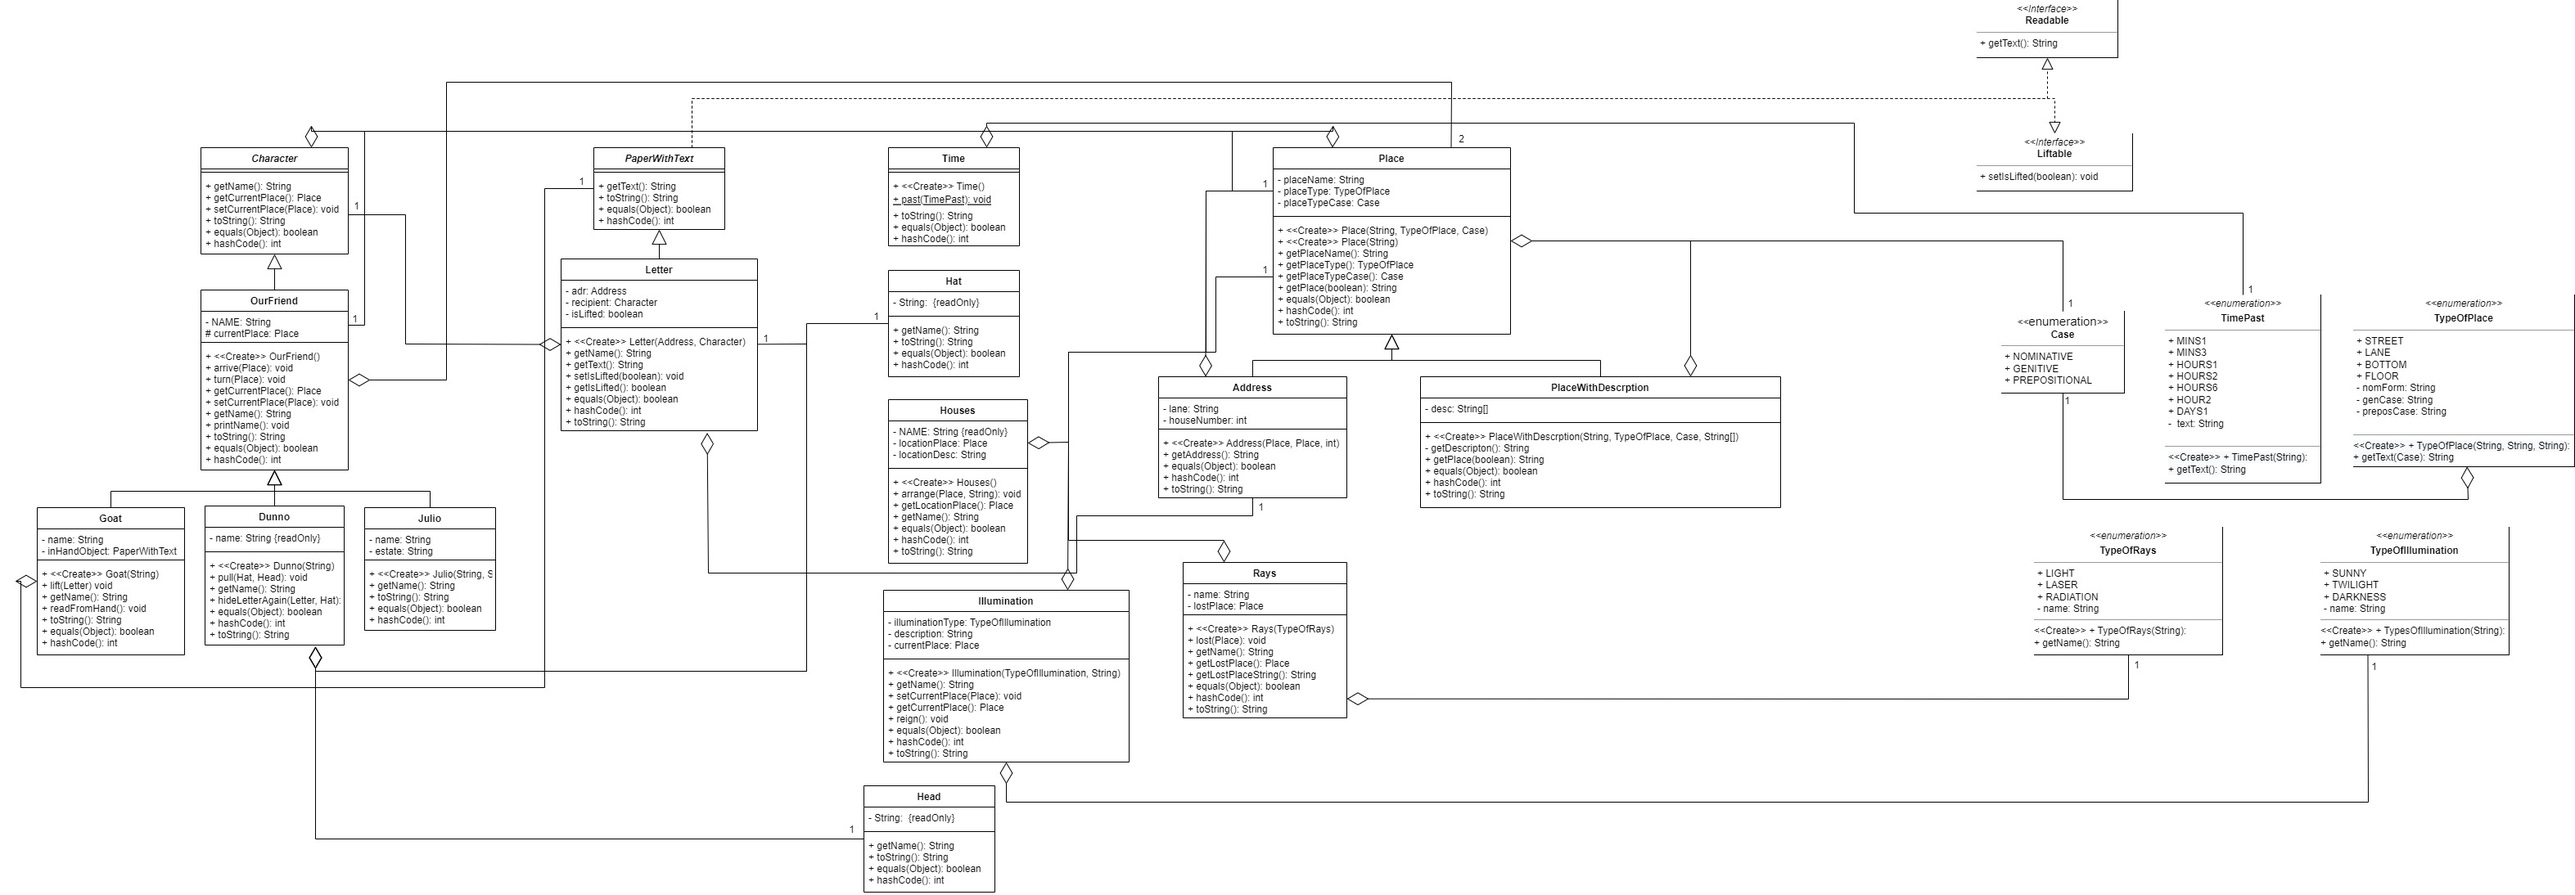
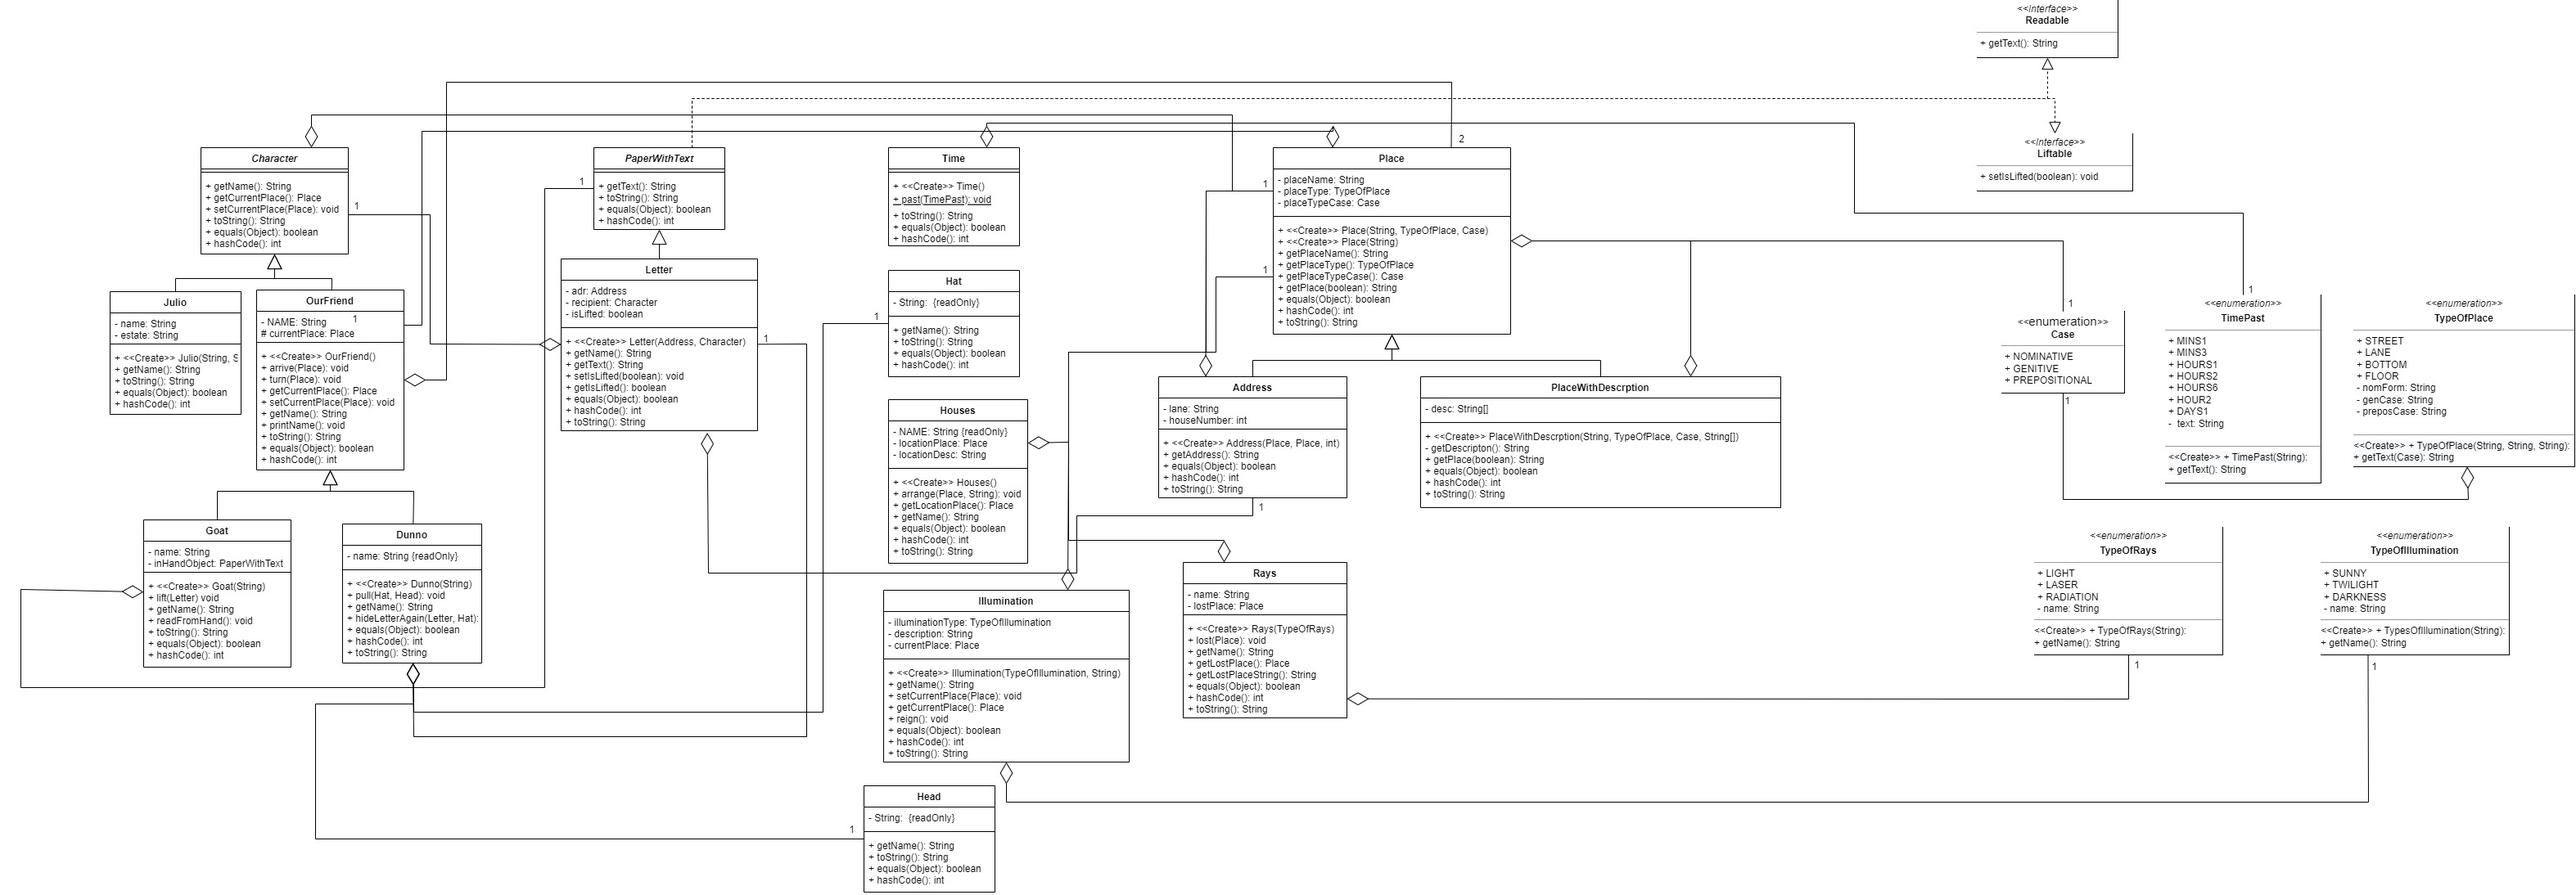
remove Julio from friends

diff --git a/src/story/Julio.java b/src/story/Julio.java
@@ -1,13 +1,24 @@
 package story;
 
 
-import java.lang.annotation.Inherited;
+import story.abstractions.Place;
+import story.abstractions.Сharacter;
 import java.util.Objects;
 
-public class Julio extends OurFriend {
+public class Julio extends Сharacter {
 
     private String name = "Жулио";
     private String estate;
+
+    private Place currentPlace;
+
+    public Place getCurrentPlace() {
+        return currentPlace;
+    }
+
+    public void setCurrentPlace(Place currentPlace) {
+        this.currentPlace = currentPlace;
+    }
 
     public Julio(String name, String estate){
         this.name = name;

diff --git a/src/story/Main.java b/src/story/Main.java
@@ -9,6 +9,7 @@ public class Main {
     public static void main(String[] args){
         Goat goat = new Goat("Козлик");
 
+
         Letter letter = new Letter(new Address(new Place("Крученая", TypeOfPlaсe.STREET, Case.NOMINATIVE),
                 new Place("Змеиный", TypeOfPlaсe.LANE, Case.NOMINATIVE), 6),
 
